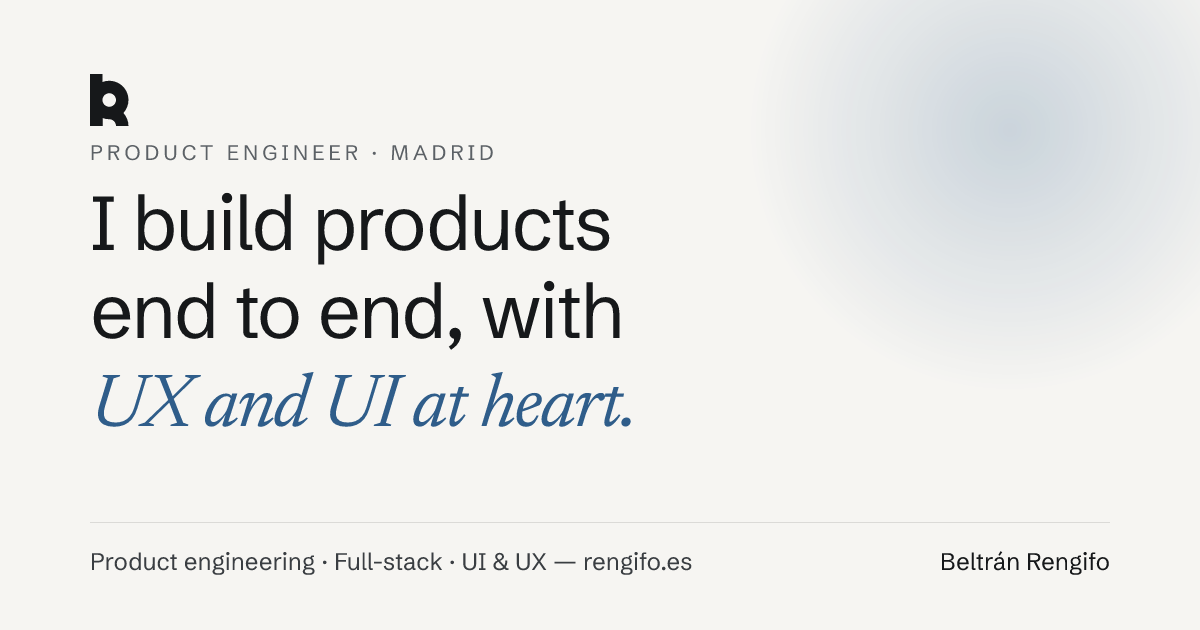
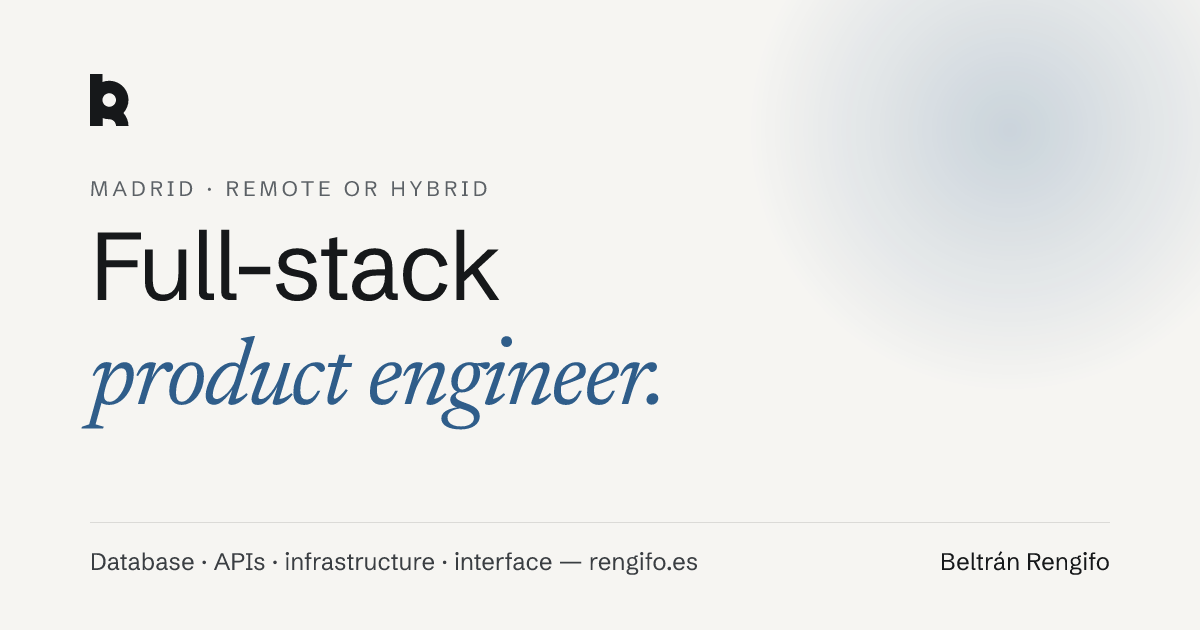
content(og): share card matches the new hero; board credit tidied
The share card still carried the old «end to end, UX and UI at heart»
heading. It now reads «Full-stack product engineer», with what I do
across the stack in the footer. On the board, the About Ndugu credit no
longer records and mixes the music it recorded.

Changed region(s): [[0.0617, 0.2111, 0.555, 0.6937], [0.0617, 0.8746, 0.5858, 0.9048]]

diff --git a/src/data/board.ts b/src/data/board.ts
@@ -156,8 +156,8 @@ export const boardWorks: BoardWork[] = [
       {
         label: { en: 'My role', es: 'Mi papel' },
         value: {
-          en: 'Location sound and miking in Kenya, translations and dubbing, then post-production: foley, the mix, and recording and mixing the music we taped in the villages',
-          es: 'Sonido directo y microfonía en Kenia, traducciones y doblajes; después la postproducción: foleys, mezclas, y la grabación y mezcla de la música que grabamos en las aldeas',
+          en: 'Location sound and miking in Kenya, translations and dubbing; then post-production: foley, the mix and the music we recorded in the villages',
+          es: 'Sonido directo y microfonía en Kenia, traducciones y doblajes; después, la postproducción: foleys, la mezcla y la música que grabamos en las aldeas',
         },
       },
       { label: DIRECTION, value: 'David Muñoz' },
